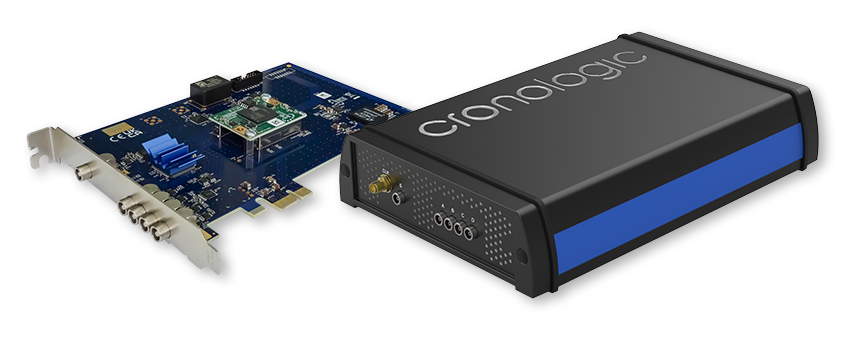
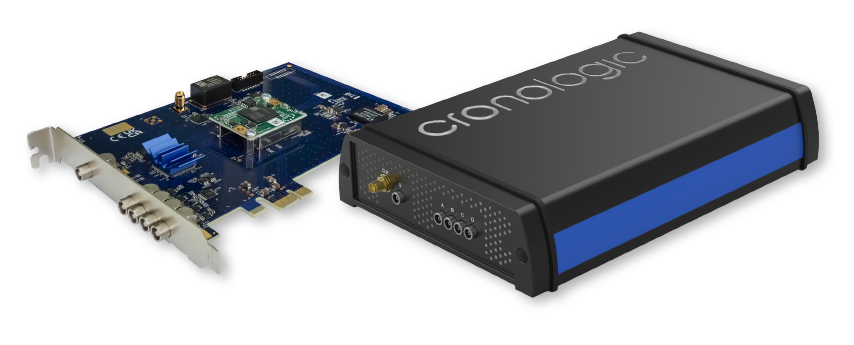
fix Figure 1 (board overview)
figure now includes external clock connector

diff --git a/source/revhistory.rst b/source/revhistory.rst
@@ -107,6 +107,9 @@ Driver & Applications
 User Guide
 ==========
 
+2.0.2-dev – TBD
+    - Updated :numref:`fig board overview`
+
 2.0.1 – 2025-10-17
     - Various clarifications and corrections in API
     - Fixed value for maximum possible PCIe throughput
